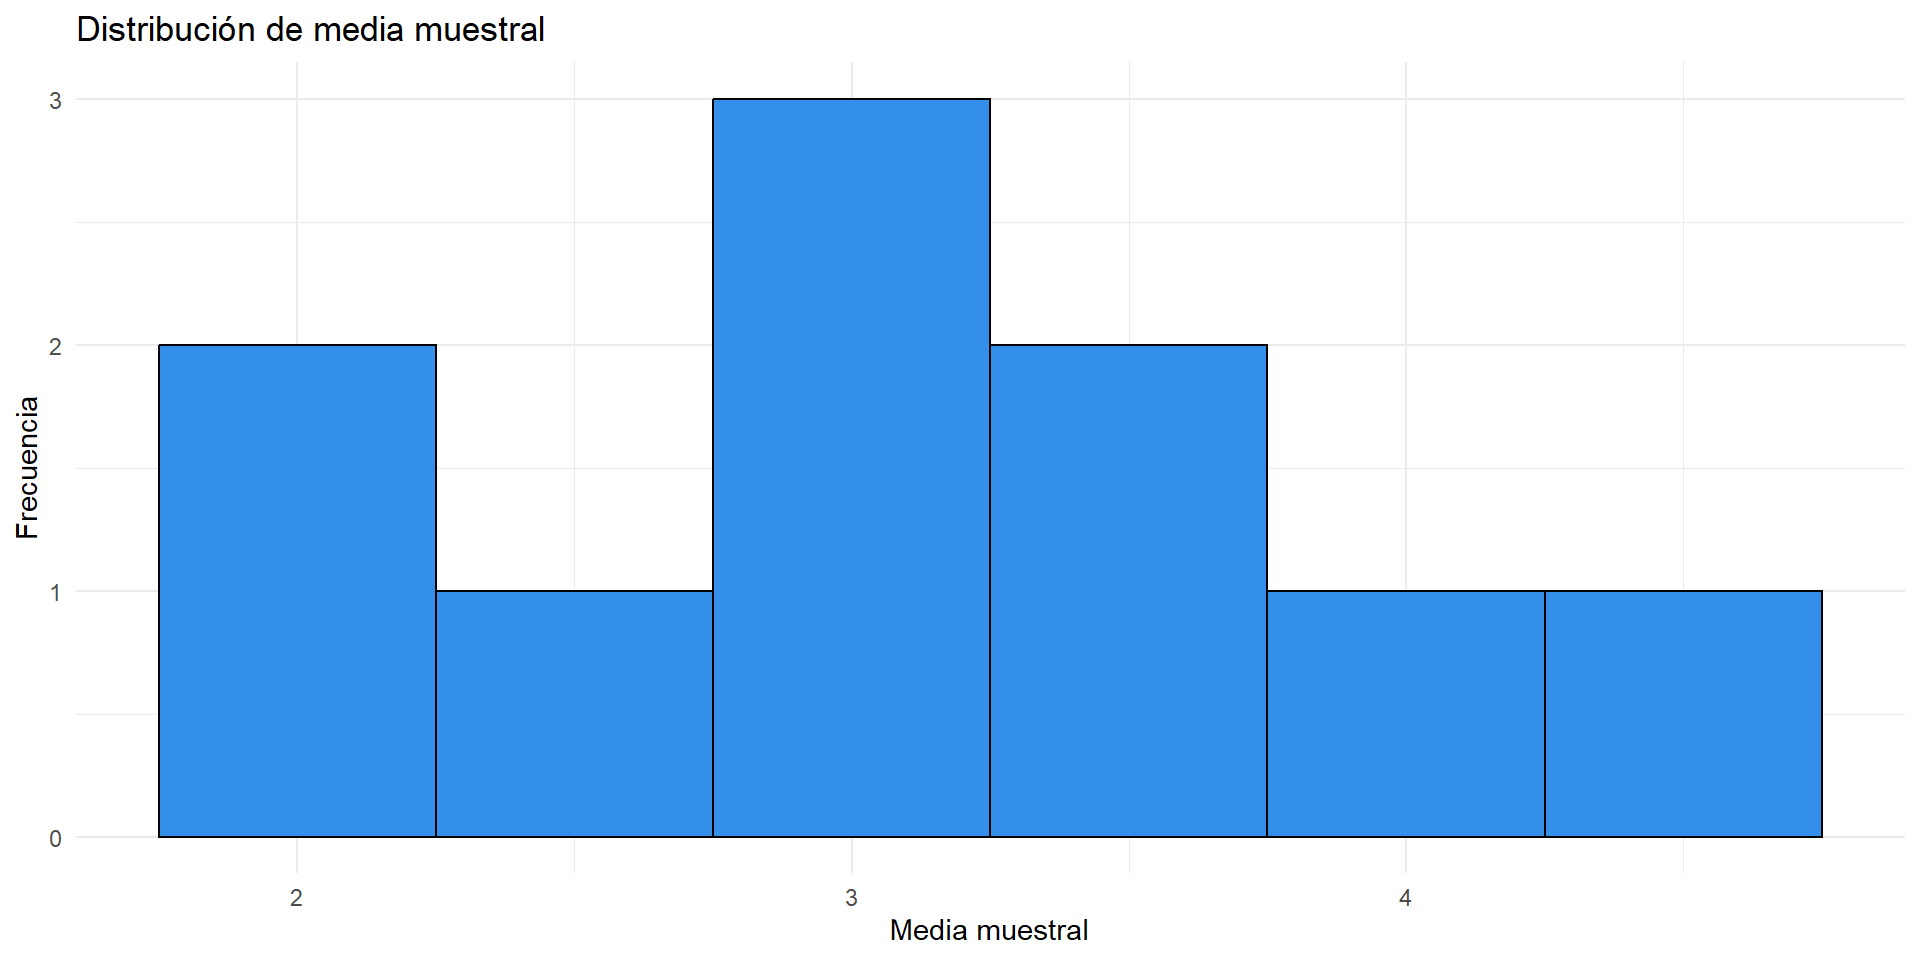
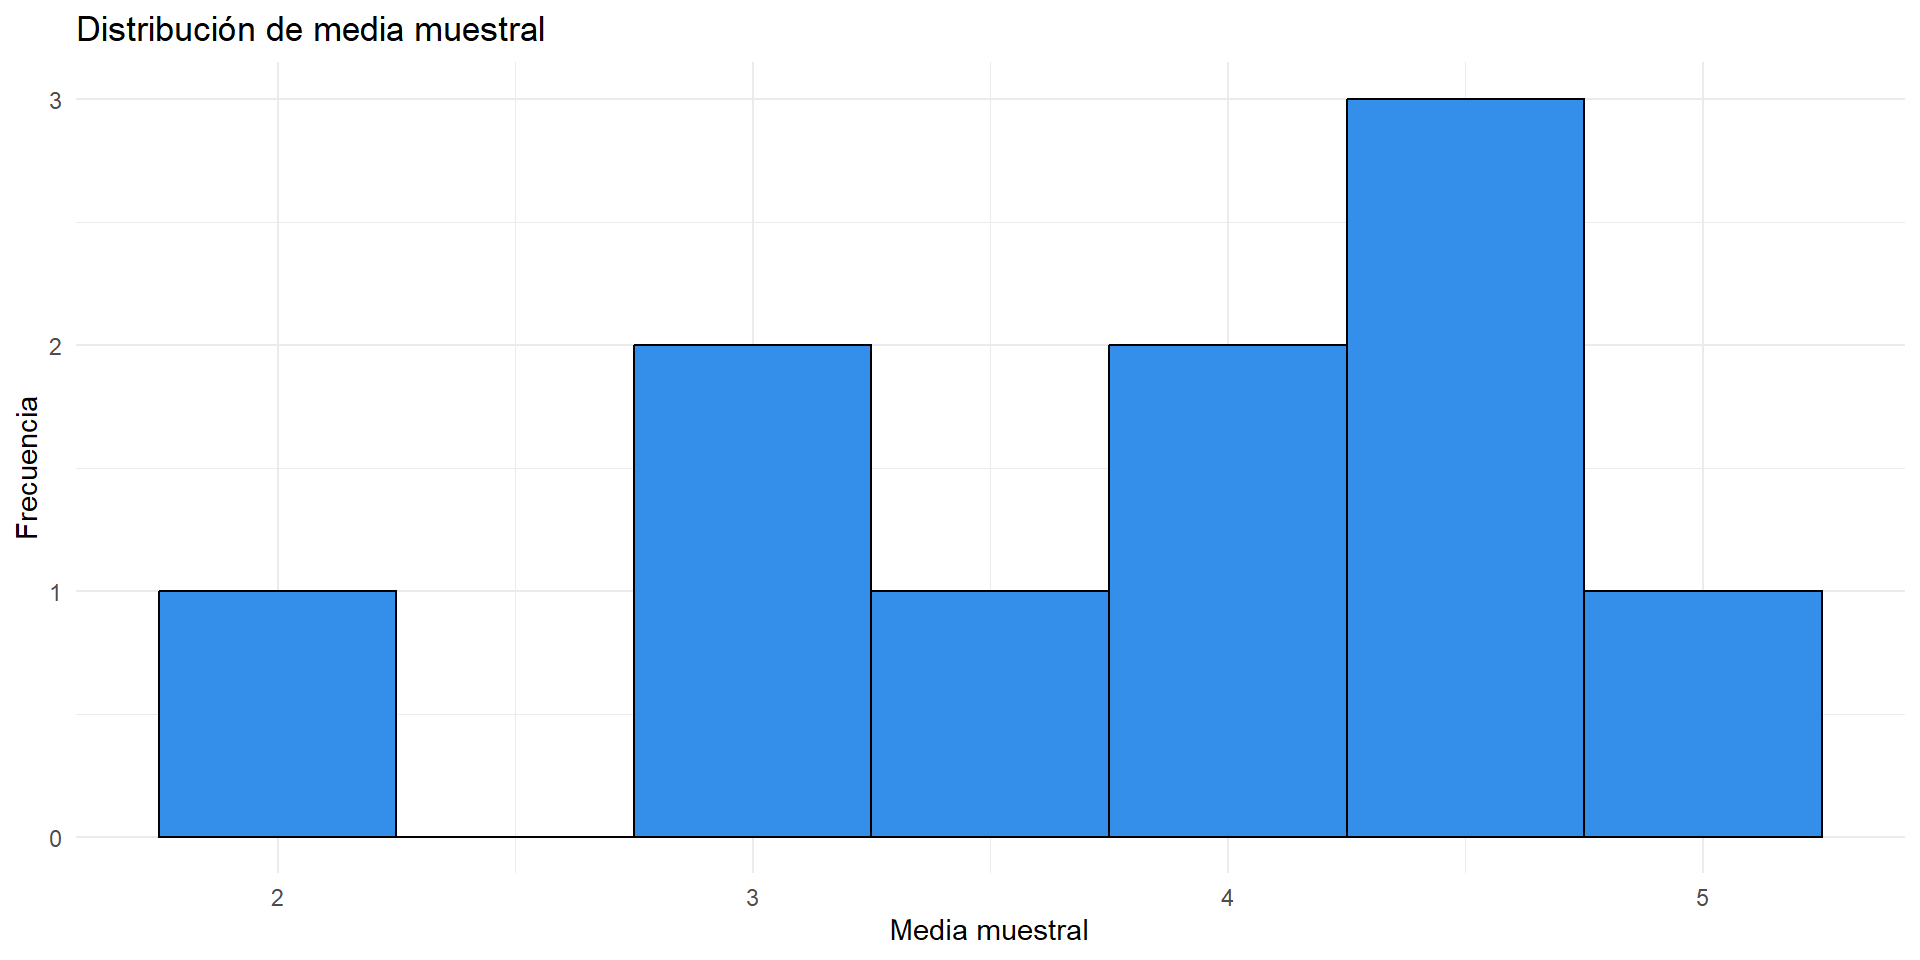
Replacing zdistribution image

Changed region(s): [[0.0625, 0.0938, 0.5938, 0.875], [0.6562, 0.0938, 0.8438, 0.625]]

diff --git a/clase4/prob_zscore.html b/clase4/prob_zscore.html
@@ -772,7 +772,7 @@ Probabilidad, Z-Score y Distribuciones Muestrales
 <span id="cb1-7"><a href="#cb1-7"></a></span>
 <span id="cb1-8"><a href="#cb1-8"></a>muestra_de_5</span></code><button title="Copy to Clipboard" class="code-copy-button"><i class="bi"></i></button></pre></div>
 <div class="cell-output cell-output-stdout">
-<pre><code>[1] 4 1 3 3 6</code></pre>
+<pre><code>[1] 4 3 2 3 5</code></pre>
 </div>
 <div class="sourceCode cell-code" id="cb3"><pre class="sourceCode numberSource r number-lines code-with-copy"><code class="sourceCode r"><span id="cb3-1"><a href="#cb3-1"></a><span class="do">## Y calculemos su media</span></span>
 <span id="cb3-2"><a href="#cb3-2"></a><span class="fu">mean</span>(muestra_de_5)</span></code><button title="Copy to Clipboard" class="code-copy-button"><i class="bi"></i></button></pre></div>
@@ -807,17 +807,17 @@ Probabilidad, Z-Score y Distribuciones Muestrales
 <span id="cb7-7"><a href="#cb7-7"></a></span>
 <span id="cb7-8"><a href="#cb7-8"></a>muestra_de_5</span></code><button title="Copy to Clipboard" class="code-copy-button"><i class="bi"></i></button></pre></div>
 <div class="cell-output cell-output-stdout">
-<pre><code>[1] 6 6 4 3 3</code></pre>
+<pre><code>[1] 3 2 5 5 3</code></pre>
 </div>
 <div class="sourceCode cell-code" id="cb9"><pre class="sourceCode numberSource r number-lines code-with-copy"><code class="sourceCode r"><span id="cb9-1"><a href="#cb9-1"></a><span class="do">## Y calculemos su media</span></span>
 <span id="cb9-2"><a href="#cb9-2"></a><span class="fu">mean</span>(muestra_de_5)</span></code><button title="Copy to Clipboard" class="code-copy-button"><i class="bi"></i></button></pre></div>
 <div class="cell-output cell-output-stdout">
-<pre><code>[1] 4.4</code></pre>
+<pre><code>[1] 3.6</code></pre>
 </div>
 <div class="sourceCode cell-code" id="cb11"><pre class="sourceCode numberSource r number-lines code-with-copy"><code class="sourceCode r"><span id="cb11-1"><a href="#cb11-1"></a><span class="do">## Otra manera de calcular la media de una muestra de 5</span></span>
 <span id="cb11-2"><a href="#cb11-2"></a><span class="fu">sample</span>(dado, <span class="dv">5</span>, <span class="at">replace =</span> <span class="cn">TRUE</span>) <span class="sc">%&gt;%</span> <span class="fu">mean</span>()</span></code><button title="Copy to Clipboard" class="code-copy-button"><i class="bi"></i></button></pre></div>
 <div class="cell-output cell-output-stdout">
-<pre><code>[1] 3.6</code></pre>
+<pre><code>[1] 4.8</code></pre>
 </div>
 </div>
 </section>
